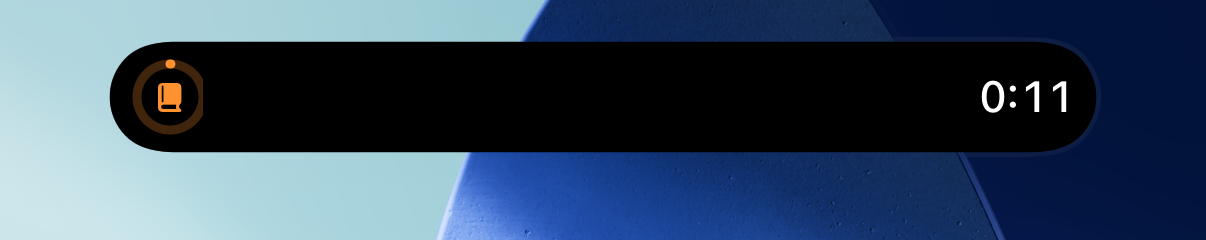
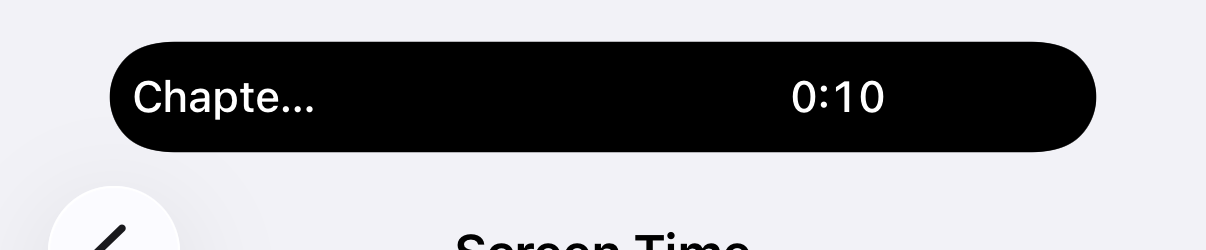
Revert "Redesign compact Dynamic Island: goal ring + flush-right time"
This reverts commit 91bfa21948ed6983bb1562f1c544ff597a159885.

diff --git a/targets/widget/StudyLiveActivity.swift b/targets/widget/StudyLiveActivity.swift
@@ -65,16 +65,22 @@ struct StudyLiveActivity: Widget {
                     .padding(.horizontal, 6)
                 }
             } compactLeading: {
-                // Clock-style: a small goal-progress ring fills the leading slot, with the
-                // book/pause/checkmark glyph + tint signalling state (running / paused / done).
-                // The full session name lives in the expanded + lock-screen presentations.
-                ProgressRing(context: context, lineWidth: 3, glyphFont: .system(size: 9, weight: .bold))
-                    .frame(width: 22, height: 22)
-                    .padding(.leading, 2)
+                // Spec: compact shows the (truncated) session name. The slot flanking the
+                // camera is narrow, so cap the width and let it truncate — the full,
+                // untruncated name lives in the expanded + lock-screen views.
+                HStack(spacing: 3) {
+                    if hasReachedGoal(context) {
+                        Image(systemName: "checkmark.circle.fill").foregroundStyle(.green)
+                    } else if context.state.isPaused {
+                        Image(systemName: "pause.fill").foregroundStyle(.orange)
+                    }
+                    Text(context.attributes.sessionName)
+                        .lineLimit(1)
+                        .frame(maxWidth: 62)
+                }
             } compactTrailing: {
                 ElapsedText(state: context.state, goalSeconds: context.attributes.goalSeconds)
                     .monospacedDigit()
-                    .multilineTextAlignment(.trailing)
                     .foregroundStyle(
                         hasReachedGoal(context) ? .green : (context.state.isPaused ? .orange : .primary)
                     )
@@ -190,10 +196,6 @@ private struct GoalProgressBar: View {
 @available(iOS 16.2, *)
 private struct ProgressRing: View {
     let context: ActivityViewContext<StudyAttributes>
-    /// Stroke width — thinner in the compact slot, thicker in the expanded island.
-    var lineWidth: CGFloat = 6
-    /// Center glyph size — scales down for the compact ring.
-    var glyphFont: Font = .caption
 
     private var progress: Double {
         guard let goal = context.attributes.goalSeconds, goal > 0 else { return 0 }
@@ -207,13 +209,13 @@ private struct ProgressRing: View {
         let reached = hasReachedGoal(context)
         let tint: Color = reached ? .green : .orange
         ZStack {
-            Circle().stroke(tint.opacity(0.25), lineWidth: lineWidth)
+            Circle().stroke(tint.opacity(0.25), lineWidth: 6)
             Circle()
                 .trim(from: 0, to: progress)
-                .stroke(tint, style: StrokeStyle(lineWidth: lineWidth, lineCap: .round))
+                .stroke(tint, style: StrokeStyle(lineWidth: 6, lineCap: .round))
                 .rotationEffect(.degrees(-90))
             Image(systemName: reached ? "checkmark" : (context.state.isPaused ? "pause.fill" : "book.closed.fill"))
-                .font(glyphFont)
+                .font(.caption)
                 .foregroundStyle(tint)
         }
     }